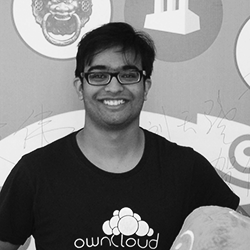
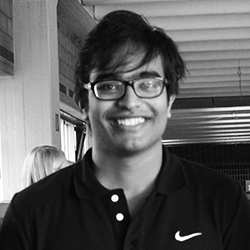
More credit images and fixes

diff --git a/styles/stylesheets/screen.css b/styles/stylesheets/screen.css
@@ -420,6 +420,7 @@ article, aside, details, figcaption, figure, footer, header, hgroup, main, menu,
   border: none;
   margin-top: 30px;
   margin-bottom: 30px;
+  background: #fefefe;
 }
 .thumbnail .caption, .thumbnail .work {
   text-align: center;
@@ -434,6 +435,10 @@ article, aside, details, figcaption, figure, footer, header, hgroup, main, menu,
   border-radius: 50%;
   max-width: 100%;
   max-height: 150px;
+}
+
+.people {
+  background: #fefefe;
 }
 
 .aboutus .carousel .item {

diff --git a/styles/sass/partials/_page.scss b/styles/sass/partials/_page.scss
@@ -2,6 +2,7 @@
 	border: none;
 	margin-top: 30px;
 	margin-bottom: 30px;
+	background: #fefefe;
 	
 	.caption, .work {
 		text-align: center;
@@ -20,6 +21,10 @@
 		max-width: 100%;
 		max-height: 150px;
 	}
+}
+
+.people {
+	background: #fefefe;
 }
 
 .aboutus {

diff --git a/application/views/pages/credits.php b/application/views/pages/credits.php
@@ -6,7 +6,7 @@
 		<div class="page-content">
 			<div class="col-sm-12 people">
 				<div class="thumbnail">
-					<img src="http://placehold.it/150x150" alt="Girish Dalvi" />
+					<img src="<?php echo base_url(); ?>images/credits/GirishDalvi.png" alt="Girish Dalvi" />
 					<div class="caption">
 						<h4>Dr. Girish Dalvi</h4>
 					</div>
@@ -39,7 +39,7 @@
 			</div>
 			<div class="col-sm-4 people">
 				<div class="thumbnail">
-					<img src="http://placehold.it/150x150" alt="Pradnya Naik" />
+					<img src="<?php echo base_url(); ?>images/credits/pradnyanaik.png" alt="Pradnya Naik" />
 					<div class="caption">
 						<h4>Pradnya Naik</h4>
 					</div>
